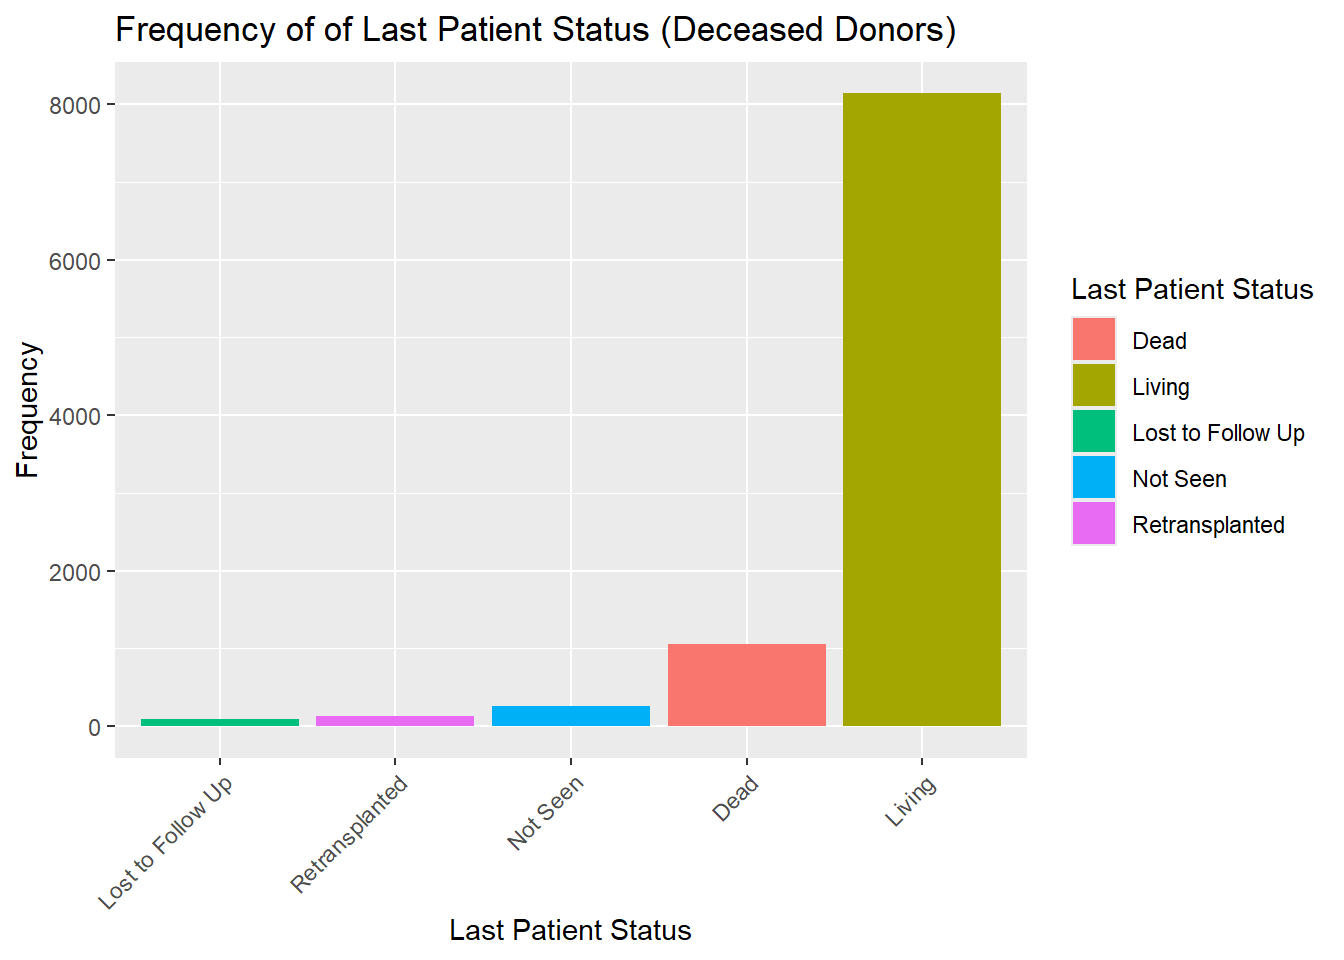
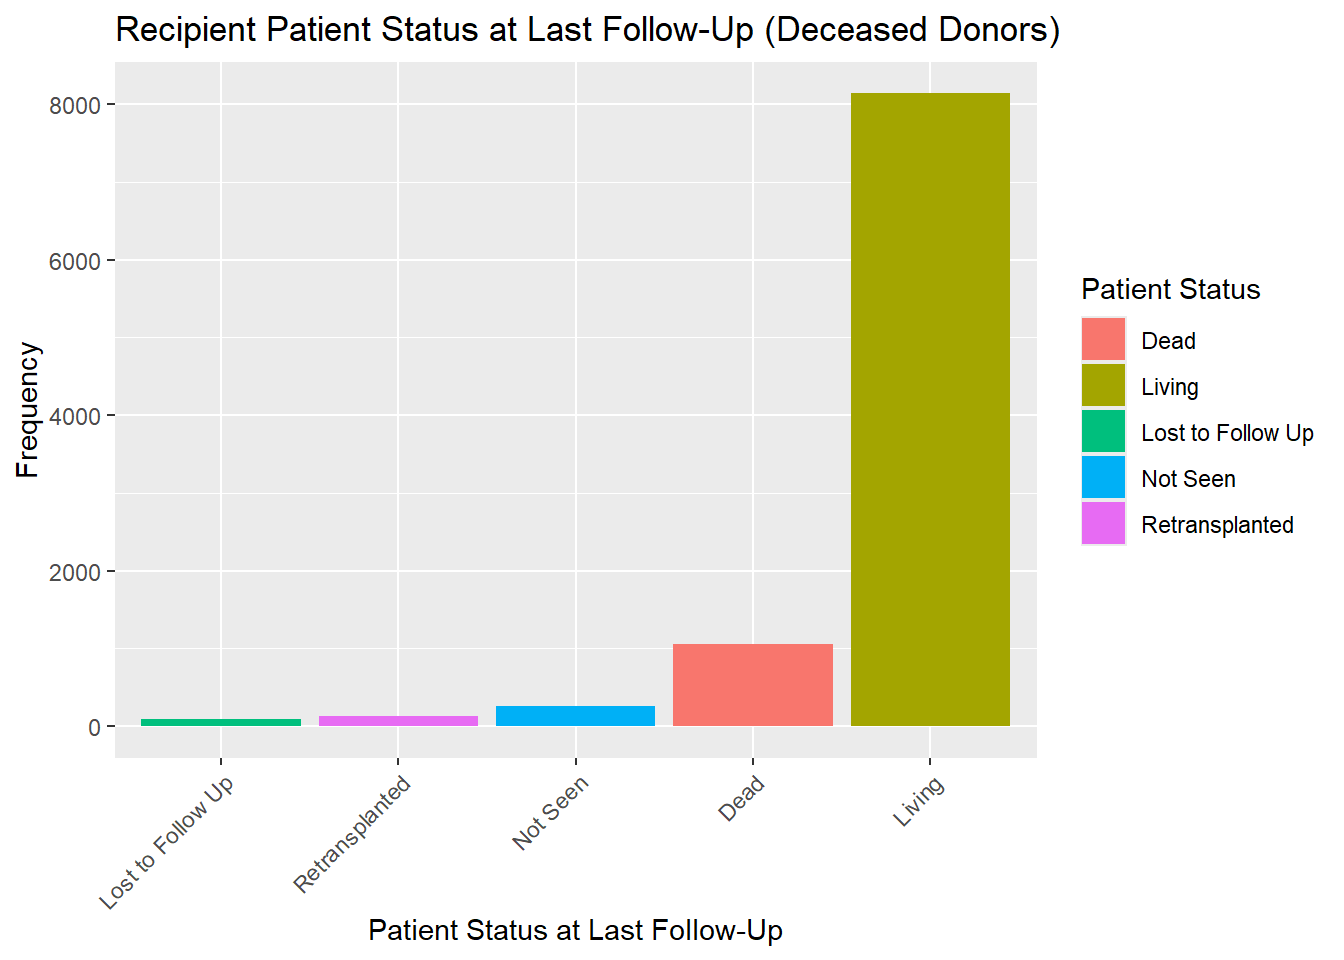
polishing page 1 labels

diff --git a/page1.html b/page1.html
@@ -342,10 +342,10 @@ div.tocify {
   <a href="page3.html">Demographics</a>
 </li>
 <li>
-  <a href="page4.html">Page 4</a>
+  <a href="page4.html">Donor Characteristics</a>
 </li>
 <li>
-  <a href="mailto:&lt;you@youremail.com&gt;">
+  <a href="mailto:&lt;dmb2257@cumc.columbia.edu&gt;">
     <span class="fa fa-envelope fa-lg"></span>
      
   </a>
@@ -378,9 +378,9 @@ div.tocify {
 </div>
 
 
-<div id="comparing-liver-transplants-by-donor-type"
+<div id="comparing-liver-transplants-by-donor-types"
 class="section level1">
-<h1>Comparing Liver Transplants by Donor Type</h1>
+<h1>Comparing Liver Transplants by Donor Types</h1>
 <p>This page explores the relationship between the type of donor and the
 recipient patient outcomes. The donor type was defined by the variable
 <code>DON_TY</code> and identifies whether the patient received a
@@ -457,6 +457,8 @@ pt_status_df =
     filter(rec_tx_org_ty %in% c(&quot;LI&quot;, &quot;KI LI 2LD&quot;, &quot;KI LI&quot;, &quot;KI LI IN&quot;, &quot;KI LU&quot;, &quot;KP LI&quot;, &quot;KP LI IN&quot;, &quot;LI HL&quot;, &quot;LI HR&quot;, &quot;LI IN&quot;, &quot;LI LU&quot;, &quot;PA LI&quot;, &quot;PA LI IN&quot;, &quot;PA LI LU&quot;))|&gt;
     mutate(
       multi_organ =as.factor(rec_tx_org_ty != &quot;LI&quot;))|&gt;
+  
+  # This creates the additional date variables
       mutate(
     days_to_lafollow = as.numeric(difftime(tfl_lafudate, tx_date, units = &quot;days&quot;)),
     days_to_follow = as.numeric(difftime(rec_px_stat_dt, tx_date, units = &quot;days&quot;)),
@@ -464,7 +466,7 @@ pt_status_df =
     failed_graft = !is.na(tfl_graft_dt))</code></pre>
 <div id="living-deceased-donor-frequencies" class="section level2">
 <h2>Living &amp; Deceased Donor Frequencies</h2>
-<pre class="r"><code># This code chunk creates a frequency table and column chart for the living vs deceased donor types. 
+<pre class="r"><code># This code chunk creates a column chart for the frequencies of transplants from living vs deceased donors 
 
 pt_status_df|&gt;
   group_by(don_ty)|&gt;
@@ -478,7 +480,9 @@ pt_status_df|&gt;
     fill = &quot;Donor Type&quot;
   )</code></pre>
 <p><img src="page1_files/figure-html/unnamed-chunk-3-1.png" width="672" /></p>
-<pre class="r"><code>pt_status_df|&gt;
+<pre class="r"><code># This code chunk creates a frequency table for the frequencies of transplants from living vs deceased donors 
+
+pt_status_df|&gt;
   group_by(don_ty)|&gt;
   summarize(Frequency = n_distinct(pers_id))|&gt;
   rename(&quot;Donor Type&quot; =don_ty)|&gt;
@@ -523,12 +527,14 @@ Living Donor
 </tr>
 </tbody>
 </table>
-<p>There is a significantly greater frequency of liver donations
-received from deceased organ donors, compared to living organ donors.
-The following analyses will contain a much greater sample of patients
-who received a transplant from a deceased donor than those who received
-a transplant from a living donor.</p>
-<pre class="r"><code>pt_status_df|&gt;
+<p>In the ALD cohort there is a prominent difference between the number
+of transplants from living donors and the number of transplants from
+deceased donors. The following analyses will contain a much greater
+sample of patients who received a transplant from a deceased donor than
+those who received a transplant from a living donor.</p>
+<pre class="r"><code># This creates a density plot of recipient age distribution by donor type
+
+pt_status_df|&gt;
   group_by(don_ty, rec_age_at_tx)|&gt;
   ggplot(aes(x= rec_age_at_tx, fill = don_ty))+
     geom_density(alpha = 0.6)+
@@ -540,20 +546,21 @@ a transplant from a living donor.</p>
   )</code></pre>
 <p><img src="page1_files/figure-html/unnamed-chunk-4-1.png" width="672" />
 This figure demonstrates the age distribution of recipients based on
-their donor type. There is a similar trend in the densities of recipient
-age. However, there is a slightly greater density of older ages among
-those with living donors than those with deceased donors. Among both
-donor types, the greatest density of transplants occur for recipients
-between approximately 50-65 years old.</p>
+their transplant donor type. There is a similar trend in the densities
+of recipient age. However, the recipients with living donors have a
+sightly greater density among older ages than those with deceased
+donors. Across both donor types, the greatest density of recipient ages
+occur approximately between 50-65 years old.</p>
 </div>
 <div id="patient-status-at-last-follow-up" class="section level2">
-<h2>Patient Status at Last Follow Up</h2>
-<p>The patient status (<code>tfl_lastatus</code>) was also included to
-identify if the patient was living, dead, retransplanted, lost to follow
-up, or not seen, at the last follow up.</p>
+<h2>Patient Status at Last Follow-Up</h2>
+<p>The patient status at the last follow up (<code>tfl_lastatus</code>)
+was also included to identify if the patient was living, dead,
+retransplanted, lost to follow up, or not seen.</p>
 <div id="transplants-from-deceased-donors" class="section level3">
 <h3>Transplants from Deceased Donors</h3>
-<pre class="r"><code># Column chart of last patient status for those who recieved organ transplant from deceased donor
+<pre class="r"><code># This plots the patient status at the last follow-up for recipients with living donors
+
 pt_status_df|&gt;
   filter(don_ty == &quot;Deceased Donor&quot;)|&gt;
   group_by(tfl_lastatus)|&gt;
@@ -562,35 +569,37 @@ pt_status_df|&gt;
   ggplot(aes(fct_reorder(tfl_lastatus, frequency), y = frequency,  fill = tfl_lastatus))+
   geom_col(position = &quot;dodge&quot;)+
     labs(
-    title = &quot;Frequency of of Last Patient Status (Deceased Donors)&quot;,
-    x = &quot;Last Patient Status&quot;,
+    title = &quot;Recipient Patient Status at Last Follow-Up (Deceased Donors)&quot;,
+    x = &quot;Patient Status at Last Follow-Up&quot;,
     y = &quot;Frequency&quot;,
-    fill = &quot;Last Patient Status&quot;
+    fill = &quot;Patient Status&quot;
   )+
   theme(axis.text.x = element_text(angle = 45, hjust = 1))</code></pre>
 <p><img src="page1_files/figure-html/unnamed-chunk-5-1.png" width="672" /></p>
 </div>
 <div id="transplants-from-living-donors" class="section level3">
 <h3>Transplants from Living Donors</h3>
-<pre class="r"><code>pt_status_df|&gt;
+<pre class="r"><code># This plots the patient status at the last follow-up for recipients with living donors
+
+pt_status_df|&gt;
   filter(don_ty == &quot;Living Donor&quot;)|&gt;
   group_by(tfl_lastatus)|&gt;
   summarize(frequency = n())|&gt;
   ggplot(aes(fct_reorder(tfl_lastatus, frequency), y = frequency,  fill = tfl_lastatus))+
   geom_col(position = &quot;dodge&quot;)+
       labs(
-    title = &quot;Frequency of of Last Follow-Up Patient Status (Living Donors)&quot;,
-    x = &quot;Last Follow-Up Status&quot;,
+    title = &quot;Recipient Patient Status at Last Follow-Up (Living Donors)&quot;,
+    x = &quot;Patient Status at Last Follow-Up&quot;,
     y = &quot;Frequency&quot;,
-    fill = &quot;Last Follow-Up Status&quot;
+    fill = &quot;Patient Status&quot;
   )+
   theme(axis.text.x = element_text(angle = 45, hjust = 1))</code></pre>
 <p><img src="page1_files/figure-html/unnamed-chunk-6-1.png" width="672" /></p>
-<p>There is a similar trend in the frequencies of each category of last
-follow-up status. Across donor types, the most frequent follow-up status
-was “Living”, followed by “Dead”. The least frequent follow-up status
-was “Lost to Follow Up”, this suggests that there is a strong follow up
-retention across the ALD cohort.</p>
+<p>There is a similar trend in the frequencies of each category of
+patient status at the last follow-up. Across donor types, the most
+frequent follow-up status was “Living”, followed by “Dead”. The least
+frequent follow-up status was “Lost to Follow Up”, this suggests that
+there is a strong follow-up retention across the ALD cohort.</p>
 </div>
 </div>
 <div id="graft-failures" class="section level2">
@@ -606,14 +615,11 @@ and graft failure date (<code>tfl_graft_dt</code>).</p>
 <h3>Total Number of Graft Failures</h3>
 <pre class="r"><code># Subsample of Graft Failures: This code chunk creates a dataframe that includes information only for patients who experienced a graft failure.
 
-graft_failures2 =
- pt_status_df|&gt;
-   group_by(don_ty)
-
 graft_failures =
 pt_status_df|&gt;
   filter(failed_graft == TRUE)
 
+# This creates a frequency table of graft failure by donor type 
 graft_failures|&gt;
   group_by(don_ty)|&gt;
   summarize(&quot;Graft Failures&quot; = n())|&gt;
@@ -662,12 +668,12 @@ Living Donor
 <p>From the entire ALD cohort, there were 389 recipients who ever
 experienced a graft failure. There were 380 graft failures among
 recipients who received a transplant from a deceased donor and 9 graft
-failures among recipients who received a transplant from a deceased
+failures among recipients who received a transplant from a living
 donor.</p>
 </div>
 <div id="time-to-graft-failure" class="section level3">
 <h3>Time to Graft Failure</h3>
-<pre class="r"><code># Frequency Table of Graft Failure by Donor Type and Histogram of Time to Failure
+<pre class="r"><code># This creates a boxplot of Time to Failure
 graft_failures|&gt;
   group_by(pers_id)|&gt;
   ggplot()+
@@ -677,8 +683,7 @@ graft_failures|&gt;
     x = &quot;Donor Type&quot;,
     y = &quot;Time to Graft Failure (days)&quot;,
     fill = &quot;Donor Type&quot;
-  )+
-  theme(axis.text.x = element_text(angle = 65, hjust = 1))</code></pre>
+  )</code></pre>
 <p><img src="page1_files/figure-html/unnamed-chunk-8-1.png" width="672" />
 This figure illustrates the time to graft failure by donor type. The
 median time to graft failure for transplants with a deceased donor was
@@ -687,9 +692,11 @@ living donor. The upper quartile is much higher for transplants with a
 deceased donor than living donor, suggesting that there is a greater
 time of the graft duration before graft failure.</p>
 </div>
-<div id="multi-organ-liver-transplants" class="section level3">
-<h3>Multi-Organ Liver Transplants</h3>
-<pre class="r"><code># Frequency Table of Multi-Organ Transplants by Donor Type and Column Chart of Frequencies
+<div id="multi-organ-vs-liver-only-transplants" class="section level3">
+<h3>Multi-Organ vs Liver Only Transplants</h3>
+<p>This observed the transplant types in the graft failure subsample.
+The transplant types were categorized as multi-organ and liver only.</p>
+<pre class="r"><code># Frequency table of graft failures by transplant type and donor type
 graft_failures|&gt;
   group_by(don_ty, multi_organ)|&gt;
   summarize(frequency = n())|&gt;
@@ -702,7 +709,7 @@ graft_failures|&gt;
   rename(&quot;Liver Only&quot; = &quot;FALSE&quot;)|&gt;
   kable(
     format = &quot;html&quot;,
-    caption = &quot;Transplant Type by Donor Type&quot;,
+    caption = &quot;Frequency of Graft Failures by Transplant Type and Donor Type&quot;,
     align = c(&quot;l&quot;, &quot;r&quot;, &quot;r&quot;)
   ) |&gt;
   kable_styling(
@@ -710,7 +717,7 @@ graft_failures|&gt;
     full_width = FALSE)</code></pre>
 <table class="table table-striped table-hover" style="width: auto !important; margin-left: auto; margin-right: auto;">
 <caption>
-Transplant Type by Donor Type
+Frequency of Graft Failures by Transplant Type and Donor Type
 </caption>
 <thead>
 <tr>
@@ -750,7 +757,8 @@ NA
 </tr>
 </tbody>
 </table>
-<pre class="r"><code>pt_status_df|&gt;
+<pre class="r"><code># Plots column chart frequency of graft failures by transplant type and donor type
+graft_failures|&gt;
   mutate(multi_organ = case_match(
            multi_organ, 
               &quot;TRUE&quot; ~ &quot;Multi-Organ&quot;,
@@ -760,20 +768,20 @@ NA
   ggplot(aes(multi_organ, frequency, fill = don_ty))+
   geom_col(position = &quot;dodge&quot;)+
   labs(
-    title = &quot;Frequency of Living vs Deceased Liver Donors&quot;,
+    title = &quot;Frequency of Graft Failures by Transplant Type and Donor Type&quot;,
     x = &quot;Tranplant Type&quot;,
     y = &quot;Frequency&quot;,
     fill = &quot;Donor Type&quot;
   )</code></pre>
 <p><img src="page1_files/figure-html/unnamed-chunk-9-1.png" width="672" />
 The subsample of recipients with graft failures was further stratified
-by the type of transplant they recieved. Transplant Type was identified
+by the type of transplant they received. Transplant Type was identified
 by the organ transplanted under the variable
 (<code>rec_tx_org_ty</code>). If the only organ listed was liver, then
 the transplant type was categorized as “Liver Only”, if an organ was
 listed in addition to liver, then the transplant type was categorized as
 “Multi-Organ”. There were no multi-organ transplants from living donors
-that experienced graft failure. However, there were 9 Liver-Only
+that experienced graft failure. However, there were 9 “Liver Only”
 transplants from living donors that experienced graft failures.</p>
 </div>
 </div>
